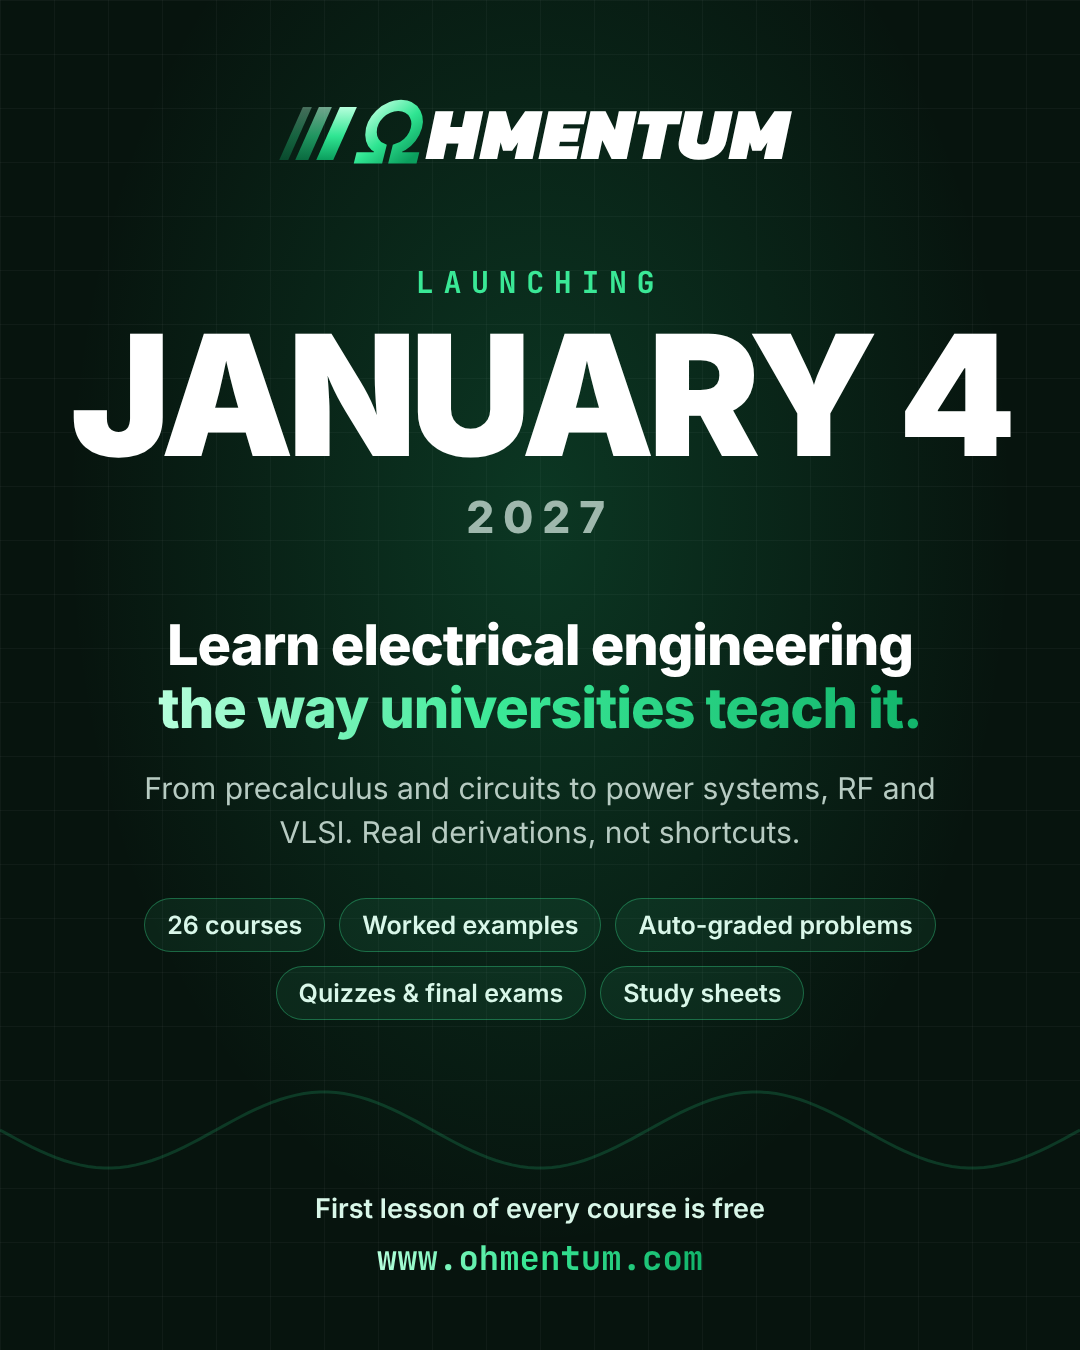
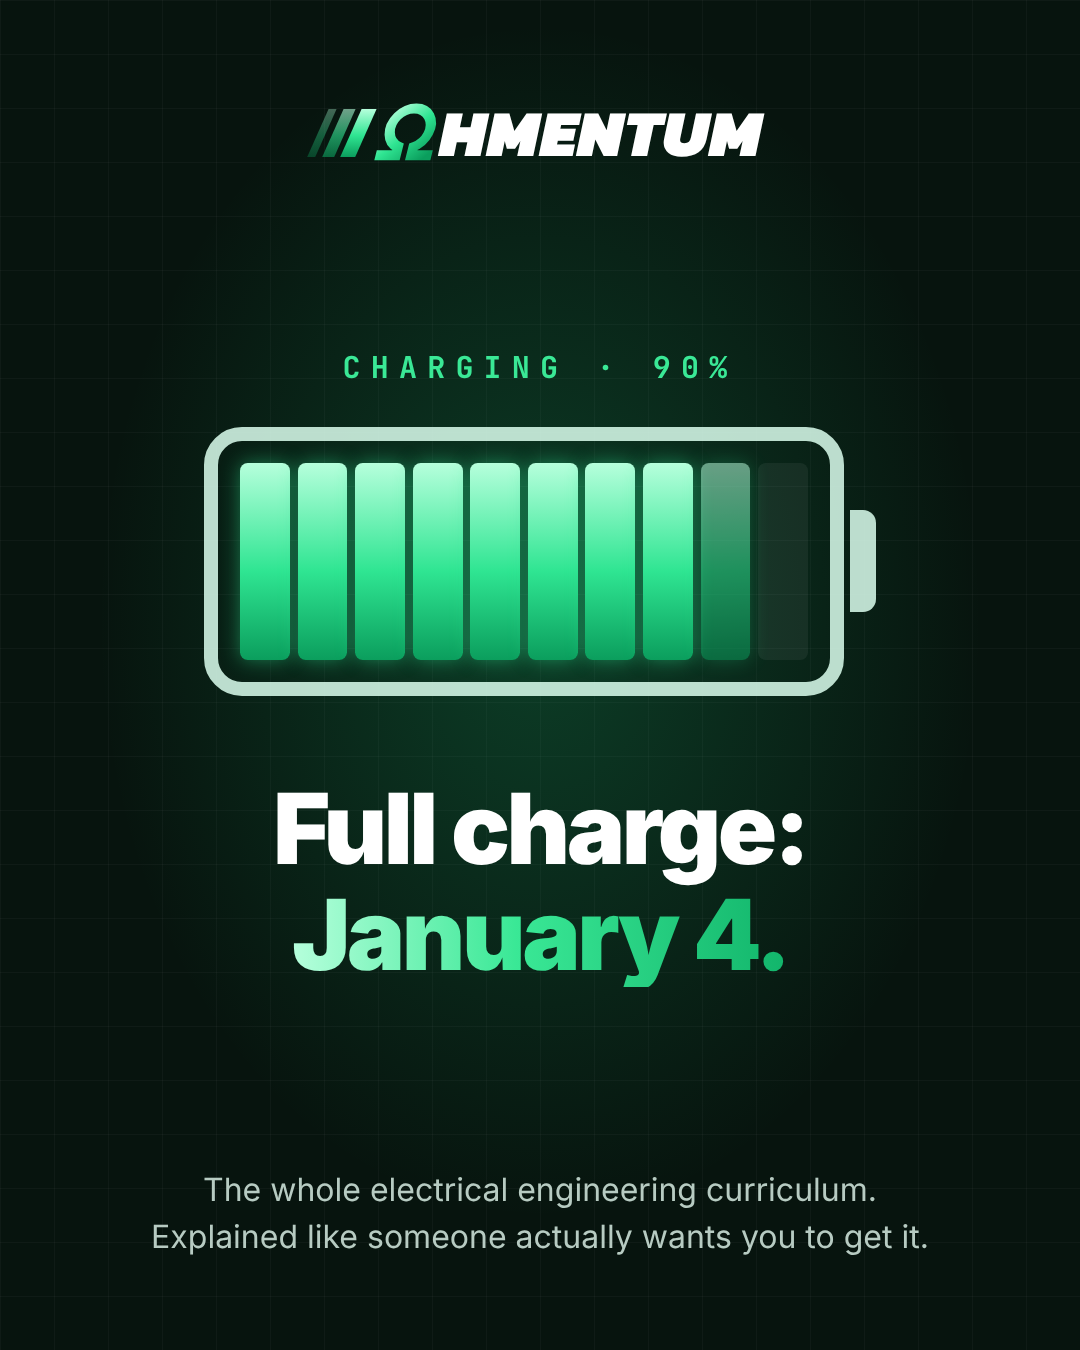
Redo launch teasers as a 'Full charge: January 4' battery design without a link
Claude-Session: https://claude.ai/code/session_014fiyyrXToikLkyPL6wvLvs

diff --git a/fluxline/brand/social/captions.md b/fluxline/brand/social/captions.md
@@ -1,40 +1,31 @@
 # Launch teaser: January 4, 2027
 
+A pure teaser: no link and no prices, so nobody reaches checkout before payments go live.
+
 Images:
 - Instagram (4:5 portrait feed post): `teaser-instagram-1080x1350.png`
 - X (16:9): `teaser-x-1600x900.png`
 
 ## Instagram caption
 
-Learn electrical engineering the way universities teach it. ⚡
+Full charge: January 4. ⚡
 
-Ohmentum launches January 4, 2027.
+We've been building something for anyone who's ever stared at a circuit problem and thought, "there has to be a better explanation."
 
-26 courses that take you from precalculus and your first circuit all the way to power systems, RF and VLSI. Every concept is derived, not just stated, then worked through in examples and practiced with auto-graded problems, quizzes and final exams. Each unit has a one-page study sheet: the formulas, when to use them, and the traps that cost points.
+The whole electrical engineering curriculum, from precalculus and your first circuit to power systems, RF and VLSI. Every step shown. No hand-waving.
 
-Built for:
-→ EE students who want a second explanation that actually clicks
-→ Technicians and tradespeople moving into engineering
-→ Anyone studying for the FE exam
-→ People who never took calculus and want to start from the beginning
+Follow along. More soon.
 
-The first lesson of every course is free. Founding Members (the first 500) lock in about half the regular price for as long as they stay subscribed.
+#electricalengineering #engineeringstudent #EE #circuits #engineering #STEM #FEexam #learnengineering #electronics #comingsoon
 
-Link in bio: ohmentum.com
+## X post (203 of 280 characters)
 
-#electricalengineering #engineeringstudent #EE #circuits #engineering #STEM #FEexam #learnengineering #electronics #studygram
+Full charge: January 4. ⚡
 
-## X post (278 of 280 characters, counting the link as 23)
+The whole electrical engineering curriculum, from your first circuit to power systems, RF and VLSI. Explained like someone actually wants you to get it.
 
-Learn electrical engineering the way universities teach it.
+Follow for launch day.
 
-26 courses, from precalculus and circuits to power systems, RF and VLSI. Worked examples, auto-graded problems and real exams.
+## Follow-up idea
 
-Launching January 4, 2027. First lesson of every course is free.
-
-ohmentum.com
-
-## Notes
-
-- Put ohmentum.com in the Instagram bio first; links in Instagram captions aren't clickable.
-- Ohmentum isn't accredited and doesn't award credit. The posts don't claim otherwise; keep it that way in replies.
+Post the same battery later at a higher charge level (for example, "CHARGING · 99%" a few days before January 4), then a full battery on launch day with the link.
